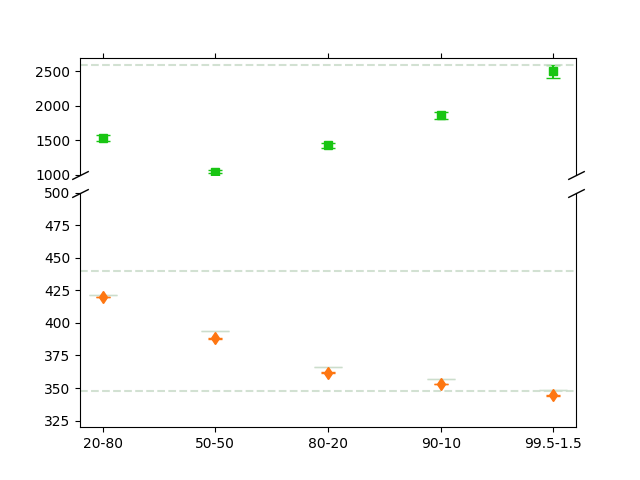
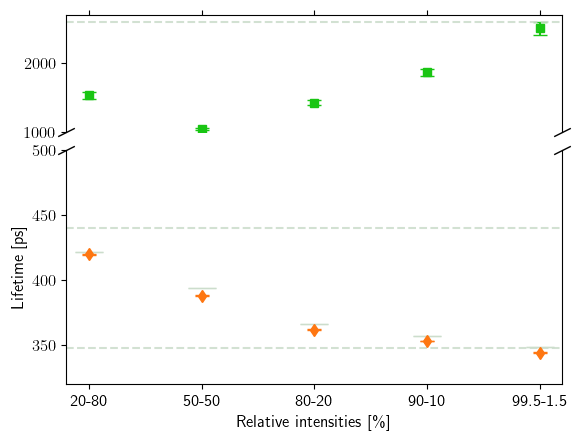
Generated necessary plots

diff --git a/Batch 7/348-440/output/2 life/plot2life.py b/Batch 7/348-440/output/2 life/plot2life.py
@@ -8,6 +8,9 @@ B = "#1dadff"
 P = "#fb3efd"
 g = "#cdcd"
 
+plt.rcParams['text.usetex'] = True
+plt.rcParams['font.size'] = 12
+
 true_int = [
 	(19.97  ,  79.88),
 	(49.925 , 49.925),
@@ -60,4 +63,7 @@ kwargs = dict(marker=[(-1, -d), (1, d)], markersize=12,
 ax1.plot([0, 1], [0, 0], transform=ax1.transAxes, **kwargs)
 ax2.plot([0, 1], [1, 1], transform=ax2.transAxes, **kwargs)
 
-plt.savefig("lifetimes.png")
+plt.xlabel(r"Relative intensities [\%]")
+plt.ylabel("Lifetime [ps]")
+
+plt.savefig("lifetimes.png", bbox_inches="tight")

diff --git a/Batch 7/348-440/output/1 life/plotsingletau.py b/Batch 7/348-440/output/1 life/plotsingletau.py
@@ -8,6 +8,9 @@ B = "#1dadff"
 P = "#fb3efd"
 g = "#cdcd"
 
+plt.rcParams['text.usetex'] = True
+plt.rcParams['font.size'] = 12
+
 true_int = [
 	(19.97  ,  79.88),
 	(49.925 , 49.925),
@@ -47,4 +50,7 @@ for i in rel_int:
 
 plt.errorbar(df["Intensities"], weighted_avg, yerr=0, linestyle="none", marker = ".", color=g, capsize=10, fmt="none")
 
-plt.savefig("lifetime.png")
+plt.xlabel(r"Relative intensities [\%]")
+plt.ylabel("Lifetime [ps]")
+
+plt.savefig("lifetimes.png", bbox_inches="tight")

diff --git a/Batch 7/348-440/output/3 life/plot3life.py b/Batch 7/348-440/output/3 life/plot3life.py
@@ -41,7 +41,7 @@ kwargs = dict(marker=[(-1, -d), (1, d)], markersize=12,
 ax1.plot([0, 1], [0, 0], transform=ax1.transAxes, **kwargs)
 ax2.plot([0, 1], [1, 1], transform=ax2.transAxes, **kwargs)
 
-plt.xlabel("Relative intensities $\\I_1$, $\\I_1$ [\\%]")
+plt.xlabel(r"Relative intensities [\%]")
 plt.ylabel("Lifetime [ps]")
 
 plt.savefig("lifetimes.png", bbox_inches="tight")
